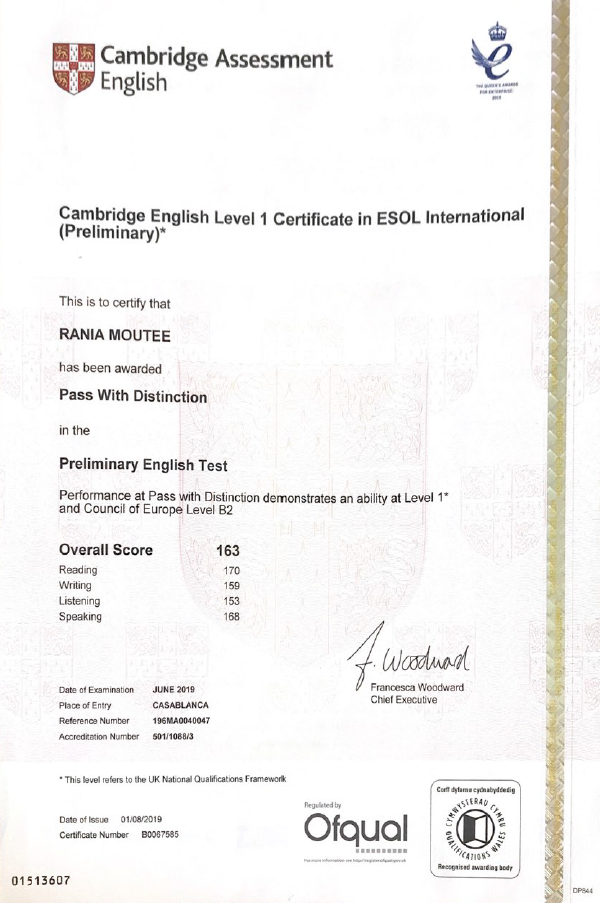
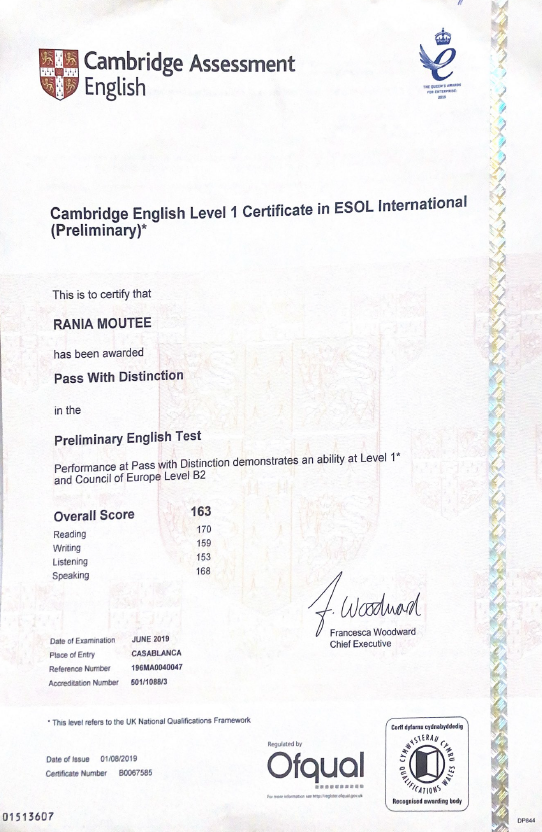
update

diff --git a/content/post/loisirs/index.md b/content/post/loisirs/index.md
@@ -1,0 +1,40 @@
+---
+title: Activités artistiques et passions de jeunesse
+description: Lecture, musique, théâtre, sport… des loisirs formateurs dès le plus jeune âge
+date: 2013-08-07
+image: musique.png
+categories:
+  - Loisirs
+tags:
+  - Musique
+  - Théâtre
+  - Lecture
+---
+
+## Un parcours enrichi par la pratique artistique
+
+Depuis mon plus jeune âge, les activités artistiques ont occupé une place essentielle dans ma vie, au-delà du cadre scolaire. Elles m'ont permis d'acquérir des qualités humaines précieuses, en cohérence avec les attentes du monde professionnel.
+
+## Musique : entre discipline et sensibilité
+
+J’ai eu la chance d’intégrer, dès l’école primaire, un club de musique où j’ai pratiqué le **violon** de manière régulière, tout en découvrant également le **piano** et la **flûte**. Ces instruments m’ont appris la rigueur, l’écoute et la coordination, des compétences transférables aujourd’hui dans des environnements de travail collaboratifs et techniques.
+
+## Théâtre : confiance et expression en français comme en anglais
+
+Parallèlement, j’ai participé à plusieurs **clubs de théâtre**, aussi bien en français qu’en anglais. Ces expériences scéniques m’ont aidée à prendre la parole avec assurance, à améliorer mon expression orale, mais surtout à travailler l’empathie, l’adaptation et la présence – autant d’atouts recherchés dans les métiers du conseil et de la gestion des relations humaines en cybersécurité.
+
+## Lecture, écriture, et curiosité intellectuelle
+
+La **lecture** régulière – tant de romans que d’essais – nourrit mon sens de l’analyse, mon vocabulaire, mais aussi ma capacité à synthétiser des idées complexes. L’**écriture** me permet de structurer mes réflexions et d’exprimer ma créativité, notamment dans les rapports de projet ou les restitutions orales.
+
+## Football : esprit d’équipe et inspiration
+
+Passionnée de football, je suis avec enthousiasme les grands championnats européens et particulièrement le parcours du **Liverpool Football Club**, dont les valeurs de combativité, d’unité et de résilience m’inspirent. Même si je le pratique peu, ce sport m’enseigne la **stratégie collective**, la **gestion des efforts dans la durée** et la **capacité à garder la motivation face à l’adversité** – des leçons applicables autant dans les projets que dans le monde professionnel.
+
+## Conclusion
+
+Ces loisirs m’ont permis, dès l’adolescence, de développer une personnalité équilibrée entre rigueur, créativité, aisance relationnelle et capacité d’engagement. Ils complètent mon profil technique et renforcent ma candidature pour des stages dans les domaines de l’**audit**, de la **gouvernance des SI** ou de la **conformité**.
+
+## Attestations
+
+![Théâtre](theatre.png) ![Musique](musique.png)

diff --git a/content/post/taekwondo/index.md b/content/post/taekwondo/index.md
@@ -1,0 +1,28 @@
+---
+title: Tae Kwon Do
+description: Ceinture noire obtenue en 2014 – Discipline, persévérance et maîtrise de soi
+slug: tae-kwon-do
+date: 2025-08-07 00:00:00+0000
+image: tae2.png
+categories:
+  - Loisirs
+---
+
+J’ai obtenu ma **ceinture noire (1er Poom)** de **Tae Kwon Do** en **2014**, délivrée par le **Kukkiwon – World Taekwondo Headquarters**, après plusieurs années d'entraînement rigoureux et d'évaluations officielles.
+
+Cette expérience a fortement contribué à structurer ma personnalité et à développer des qualités aujourd’hui recherchées dans le domaine de la **cybersécurité**, notamment en **gouvernance**, **audit des SI** et **gestion des risques** :
+
+- **Discipline** : capacité à suivre une méthodologie stricte et à respecter les règles dans des contextes exigeants.
+- **Maîtrise de soi** : gestion du stress et prise de décision réfléchie, y compris sous pression.
+- **Persévérance** : volonté d’atteindre ses objectifs même face aux difficultés, qualité essentielle dans les environnements techniques.
+- **Éthique et rigueur** : respect des engagements, esprit de justice, sens du devoir.
+
+En 2011, j’ai également été distinguée pour mon comportement exemplaire en club, une reconnaissance qui reflète un engagement constant dans la durée.
+
+---
+
+### Attestations
+
+![Voir certificat officiel du Kukkiwon (2014)](tae2.png)
+![Voir carte d'identification Tae Kwon Do – 1er Poom](card1.png)![Face 2](card2.png)
+![Voir certificat d’exemplarité – 2011](tai1.png)

diff --git a/content/post/cambridge/index.md b/content/post/cambridge/index.md
@@ -1,6 +1,6 @@
 ---
-title: Diplôme de langue anglaise
-date: 2019-06-15
+title: Diplôme de langue Anglaise
+date: 2019-08-01
 image: cambridge.png
 tags: 
   - Anglais
@@ -13,7 +13,7 @@ categories:
 - **Organisme :** Cambridge Assessment English (UK)
 - **Niveau validé :** Level 1* (équivalent **B2** – CECRL)
 - **Mention obtenue :** *Pass With Distinction*
-- **Date d'obtention :** Juin 2019
+- **Date d'obtention :** Août 2019
 - **Lieu d'examen :** Casablanca
 - **Score global :** 163 / 170
   - Reading : 170
@@ -28,4 +28,4 @@ Depuis, **mon niveau a nettement évolué**, notamment parce que **je lis souven
 
 *Correspond au niveau B2 du Cadre Européen Commun de Référence pour les Langues (CECRL).*
 
-![Diplome](Cambridge.png)
+![Diplome](cambridge.png)

diff --git a/content/post/delf/index.md b/content/post/delf/index.md
@@ -1,6 +1,6 @@
 ---
-title: Diplôme de langue française
-date: 2020-06-15
+title: Diplôme d’Études en Langue Française
+date: 2020-01-20
 image: delf.png
 tags: 
   - Français
